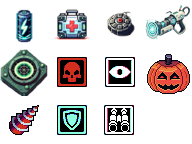
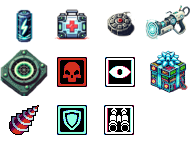
hazard: gift sprite and hohoho music effect

Changed region(s): [[0.75, 0.3333, 1.0, 0.6667]]

diff --git a/src/game/scenes/main-scene/sounds.js b/src/game/scenes/main-scene/sounds.js
@@ -38,6 +38,7 @@ export function doAddSounds(mainScene) {
   mainScene.quadDamage = mainScene.sound.add('quad_damage', { loop: false, volume: 2.5 });
   mainScene.shotBuzz = mainScene.sound.add('shot_buzz', { loop: false, volume: 0.5 });
   mainScene.hahaSound = mainScene.sound.add('haha', { loop: false, volume: 2 });
+  mainScene.hohohoSound = mainScene.sound.add('hohoho', { loop: false, volume: 2 });
   mainScene.healEffect = mainScene.sound.add('heal_effect', { loop: false, volume: 1 });
   mainScene.monsterEliminated = mainScene.sound.add('monster_eliminated', { loop: false, volume: 4.0 });
   mainScene.newWave = mainScene.sound.add('new_wave', { loop: false, volume: 4.0 });

diff --git a/src/game/scenes/main-scene/preload.js b/src/game/scenes/main-scene/preload.js
@@ -87,6 +87,7 @@ export function doPreloadAssets(mainScene) {
   mainScene.load.audio('quad_damage', ['assets/audio/quad_damage.m4a']);
   mainScene.load.audio('shot_buzz', ['assets/audio/shot_buzz.mp3']);
   mainScene.load.audio('haha', ['assets/audio/haha.mp3']);
+  mainScene.load.audio('hohoho', ['assets/audio/hohoho.mp3']);
   // mainScene.load.audio('background_music_haunted_1', ['assets/audio/background_music_haunted_1.mp3']);
   // mainScene.load.audio('background_music_haunted_2', ['assets/audio/background_music_haunted_2.mp3']);
   mainScene.load.audio('heal_effect', ['assets/audio/heal_effect.mp3']);

diff --git a/src/game/scenes/main-scene/commands/picked.js b/src/game/scenes/main-scene/commands/picked.js
@@ -72,9 +72,9 @@ function playSound(picked, self) {
 
 function handleHazard(picked, self, player) {
   if (picked.result === 'win') {
+    self.hohohoSound.play();
     self.treasureSound.play();
   } else {
-    self.hahaSound.play();
     self.explosionSound.play();
     self.mainPlayer.explosionAnim().once('animationcomplete', () => {
       if (picked.finished) {
